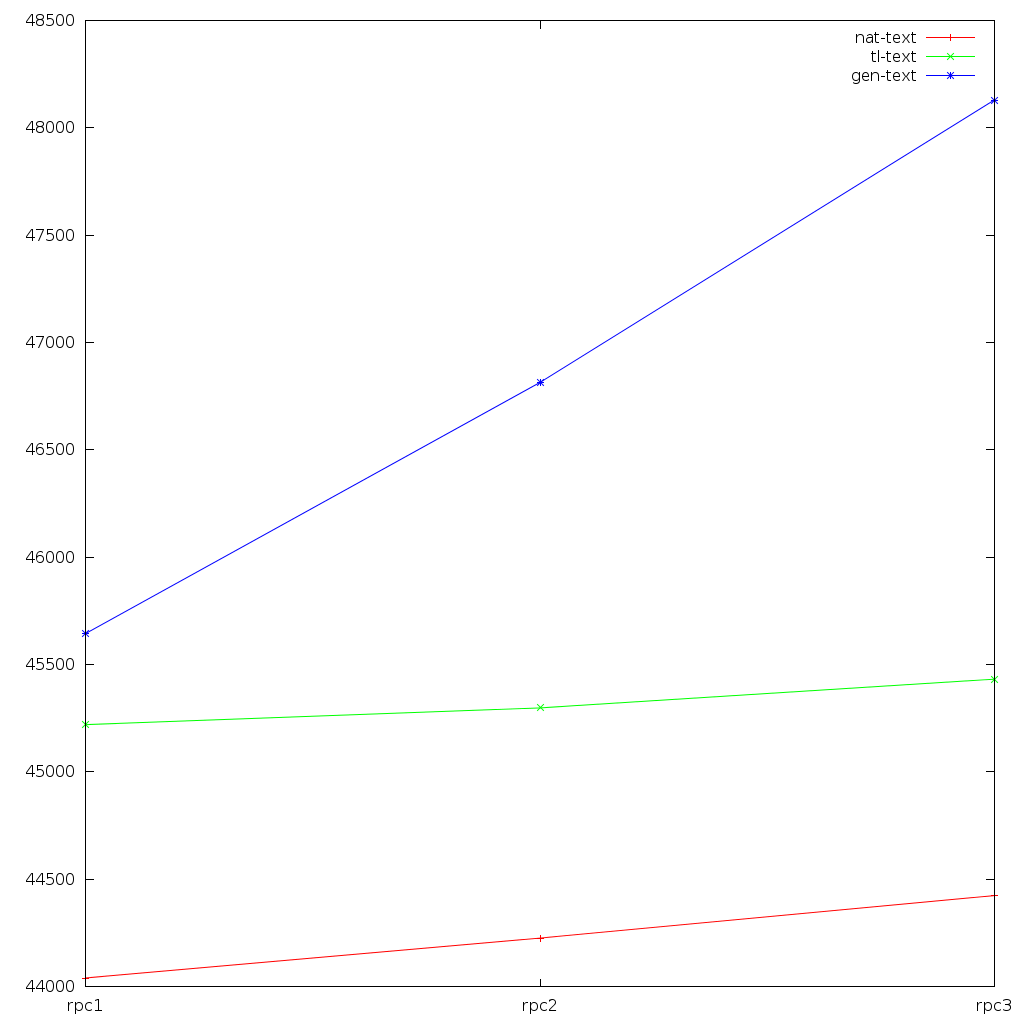
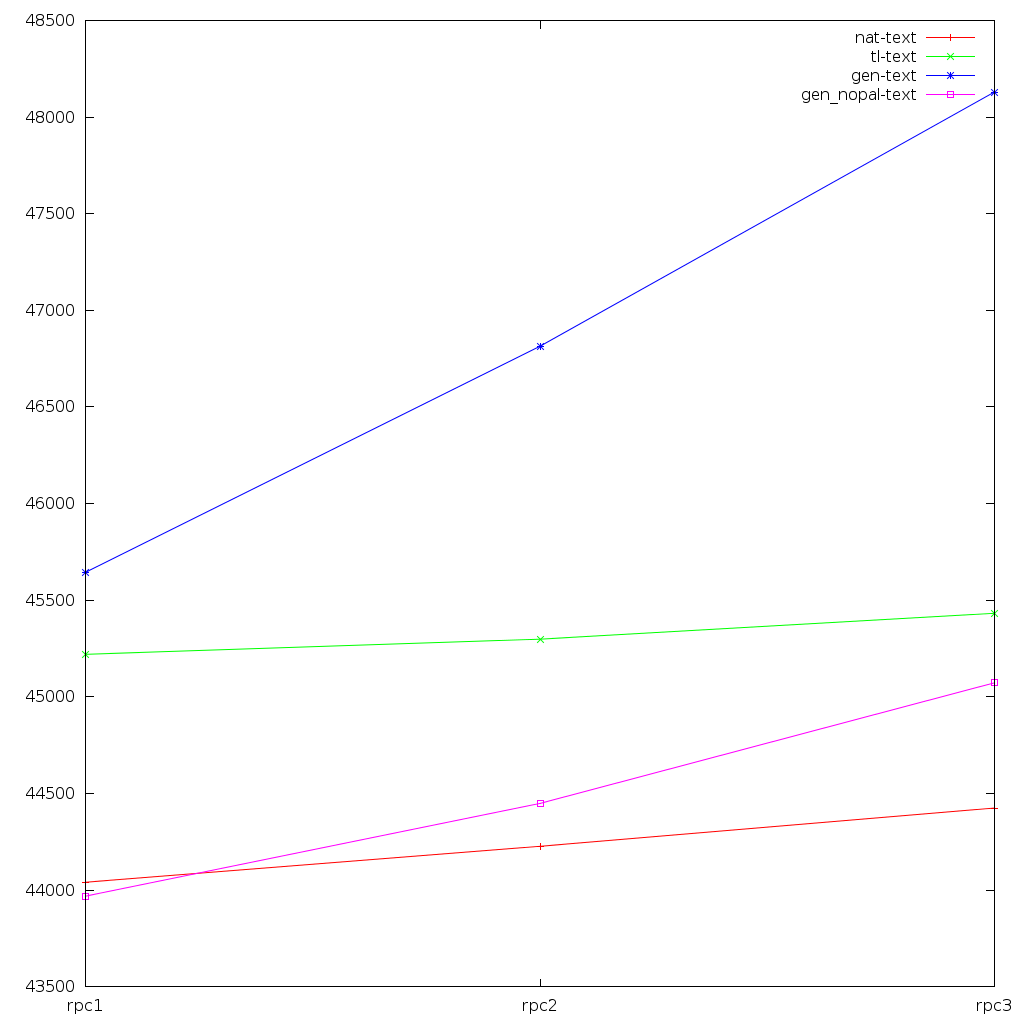
plotting PAL overhead to text (per thread)

diff --git a/applications/contiki/plots/pt_text.py b/applications/contiki/plots/pt_text.py
@@ -12,10 +12,10 @@ set palette gray
 set auto x
 set auto y
 
-plot '%(infile)s' using 2:xtic(1) title columnheader(2), '' using 3 title columnheader(3), '' using 4 title columnheader(4)
+plot '%(infile)s' using 2:xtic(1) title columnheader(2), '' using 3 title columnheader(3), '' using 4 title columnheader(4), '' using 5 title columnheader(5)
 """
 
-def plot(path, values, (apps_, variants_, measurements_)):
+def plot(path, values_, (apps_, variants_, measurements_)):
     measurements = ["text"]
     assert set(measurements).issubset(set(measurements_)), str(measurements_)
 
@@ -25,7 +25,14 @@ def plot(path, values, (apps_, variants_, measurements_)):
     variants = ["nat", "tl", "gen"]
     assert set(variants).issubset(set(variants_)), str(variants_)
 
-    plotdata = gnuplot.linespoints(values, apps, variants, ["text"])
+    values = {}
+    for a in apps:
+        for v in variants:
+            values[(a,v,"text")] = values_[(a,v,"text")]
+        values[(a,"gen_nopal", "text")] = values_[(a,"gen","text")] - values_[(a, "pal", "text")]
+
+    variants.append("gen_nopal")
+    plotdata = gnuplot.linespoints(values, apps, variants, measurements)
 
     config = {'outfile': os.path.join(path, "pt_text")}
     gnuplot.plot(script, config, plotdata)
